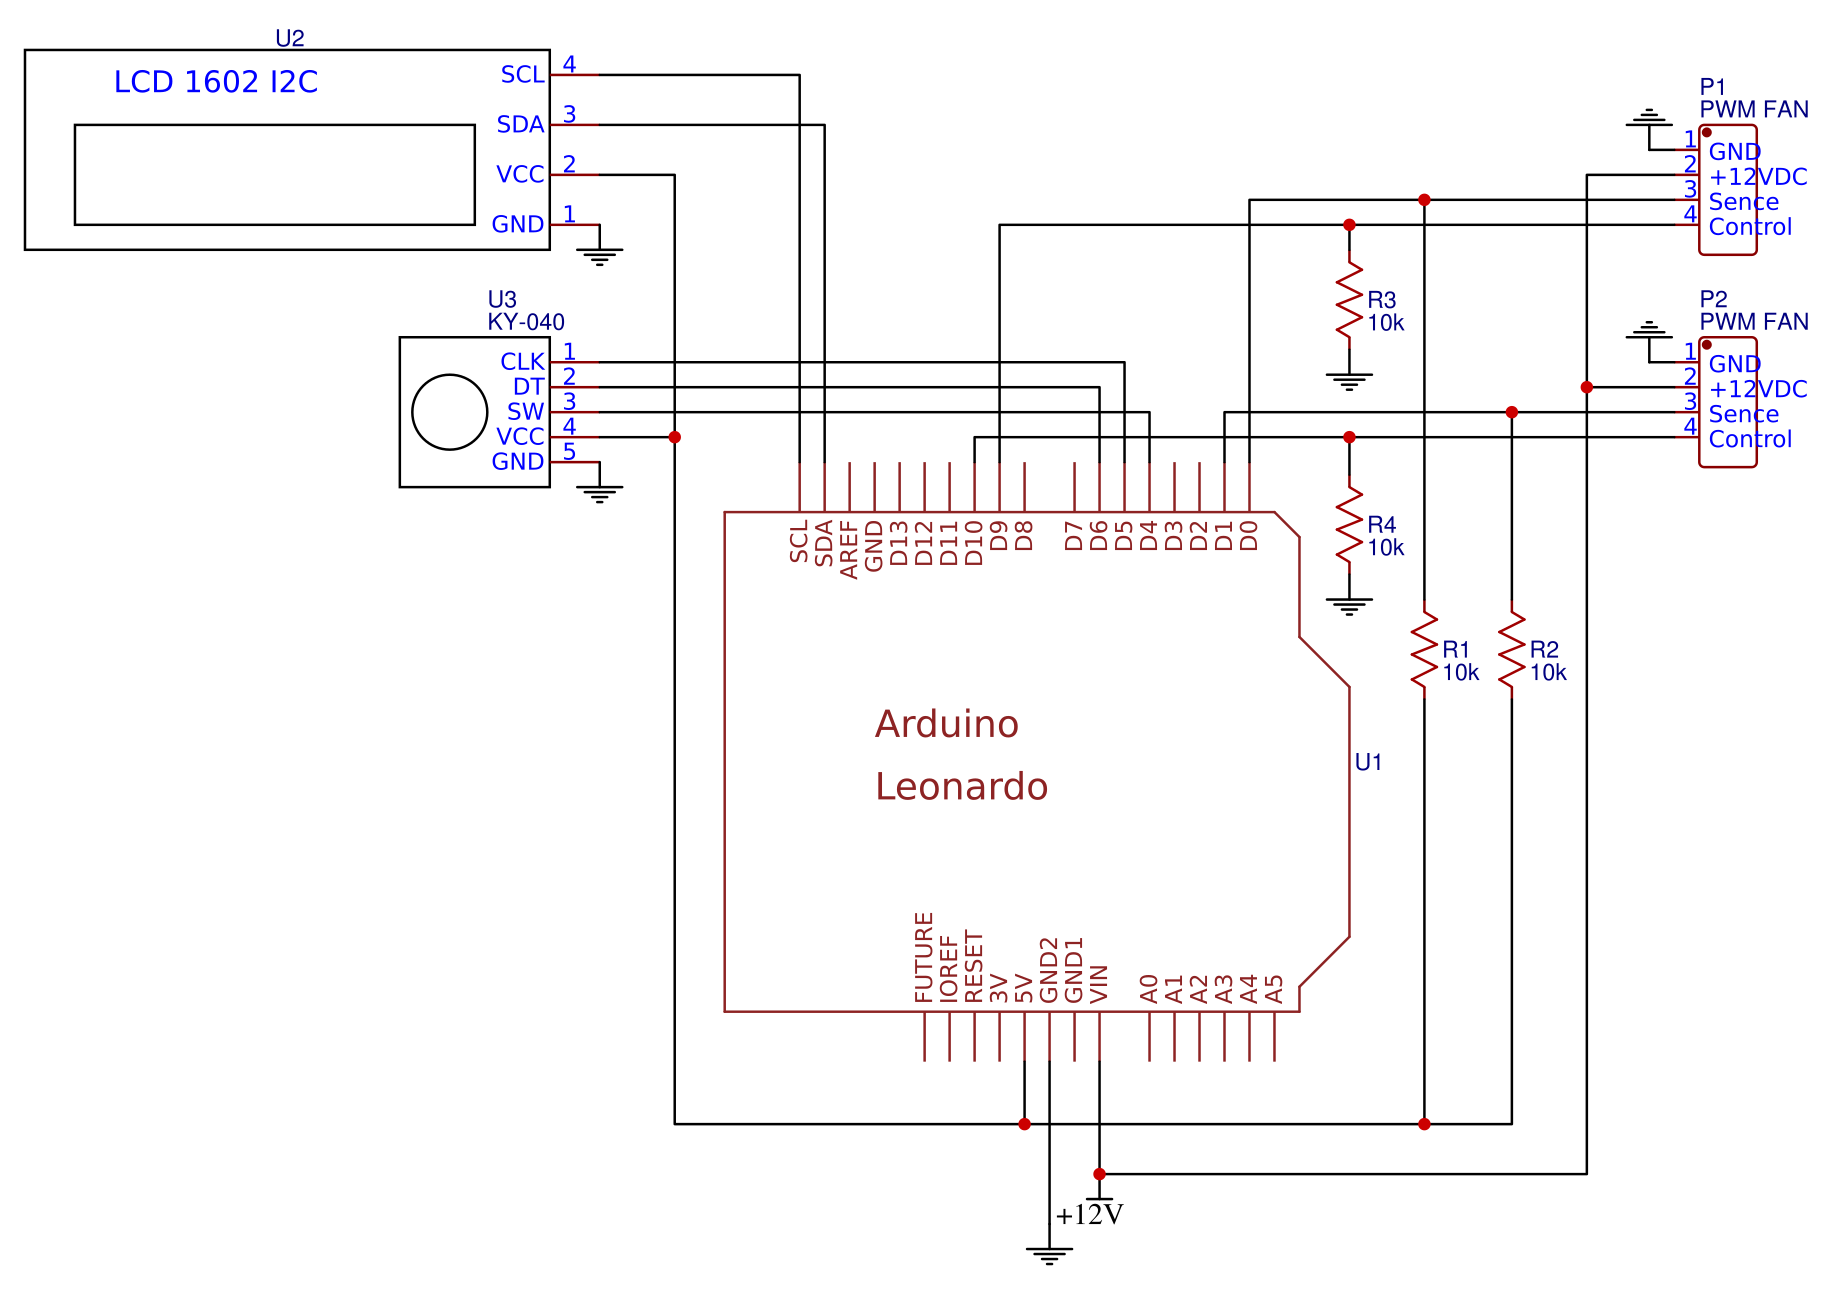
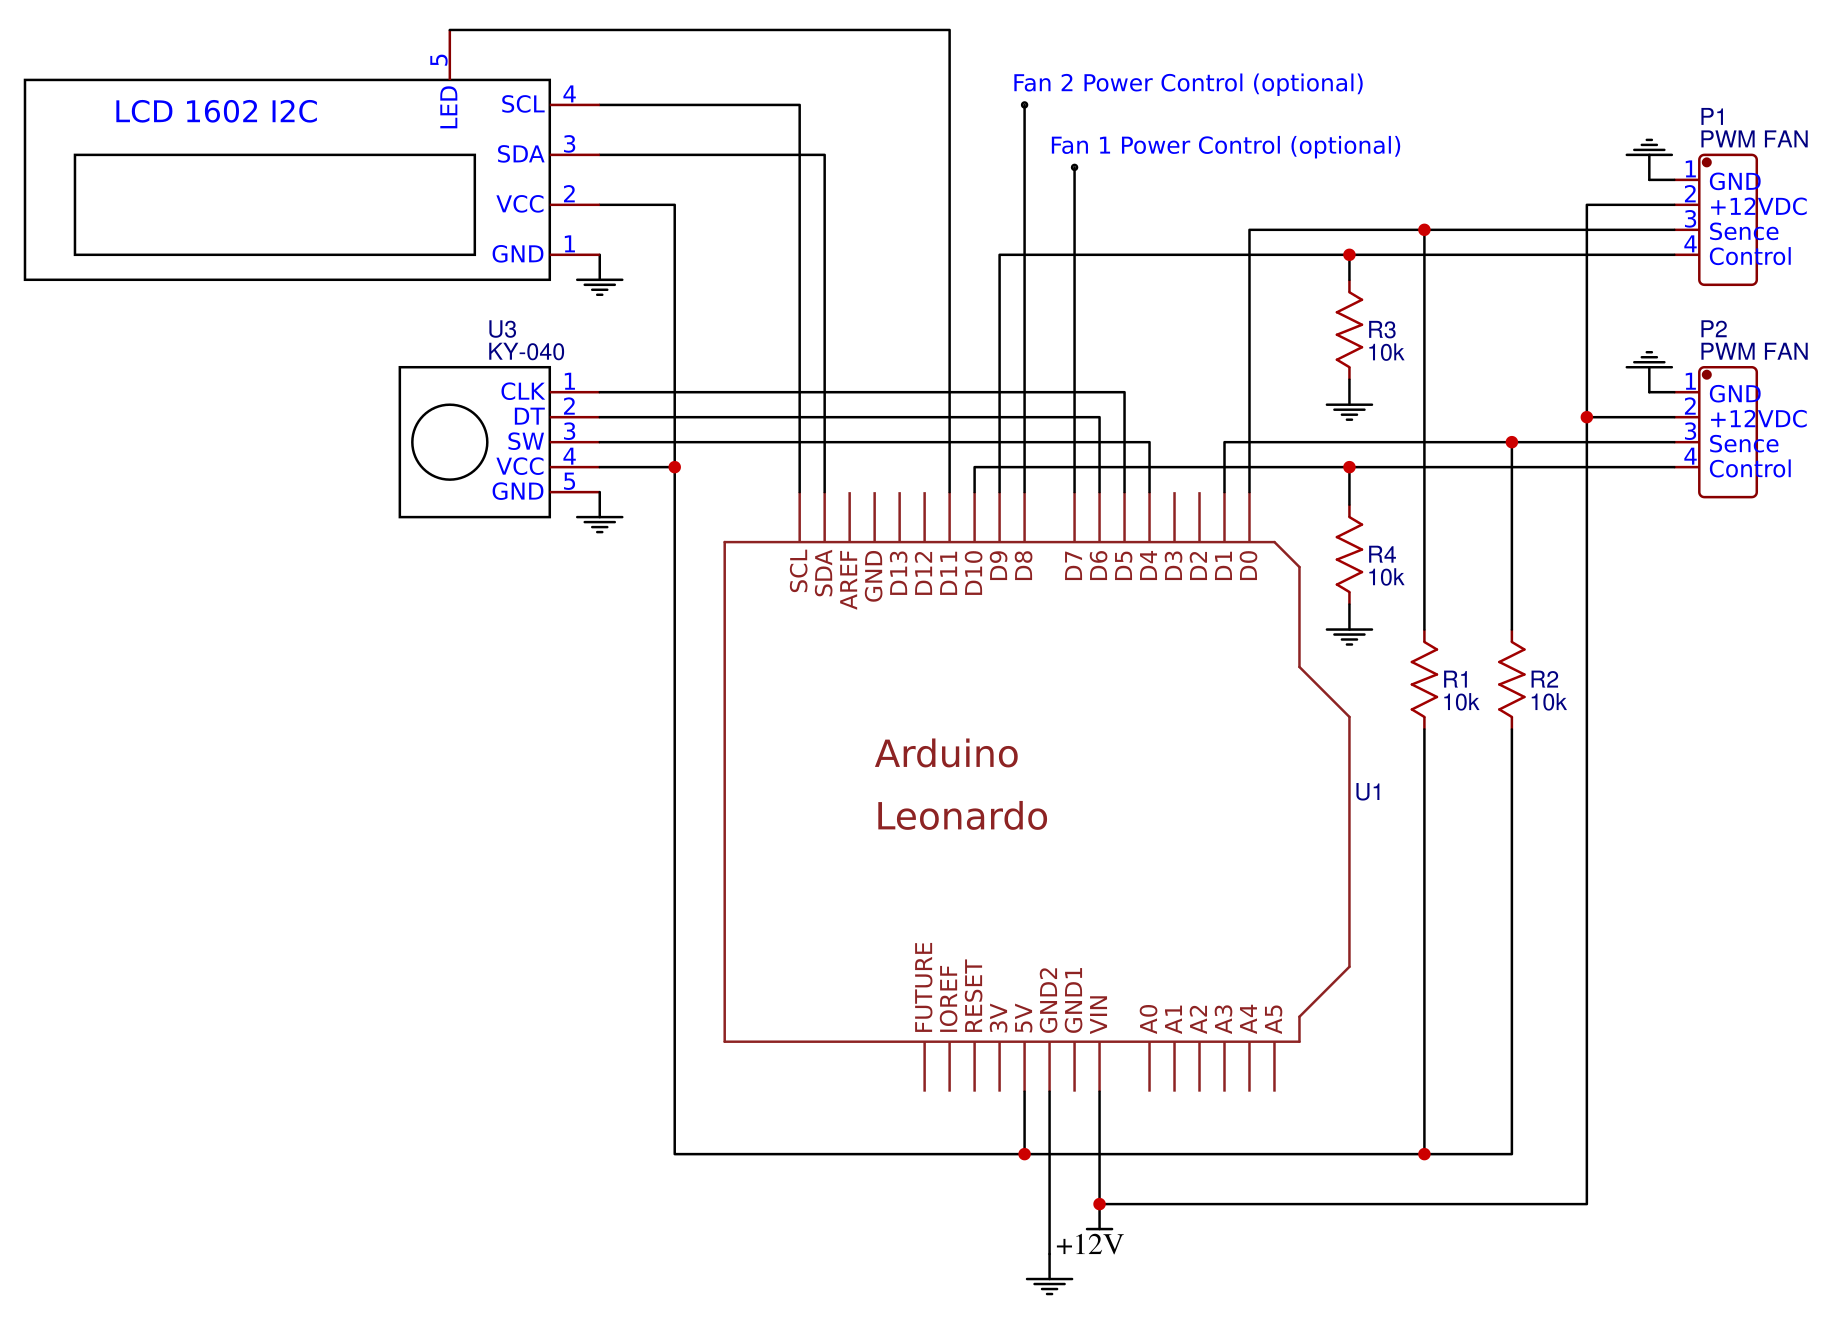
off state pins, brightness control

diff --git a/README.md b/README.md
@@ -25,6 +25,8 @@ All functions are controlled by the KY-040 encoder:
   * **CTIME**: turn changes the interval in minutes for the fish catching function
   * **RTIME**: turn changes speed rise time in seconds (applies to power on, stirrer on, boost on and fish catching)
   * **OTIME**: turn changes switch off time in hours (the timer activates immediately, 0 = switch off disabled)
+* **Other menu options**:
+  * **BRGHT**: LCD brightness
 
 ## Display Indicators:
 
@@ -40,10 +42,17 @@ All functions are controlled by the KY-040 encoder:
 |`SPEEDINC`|increment of speed values when turning the encoder|
 |`FANMIN`|fan minimum speed (should be a value at which the fan runs safely) (rpm)|
 |`FANMAX`|maximum speed of the fan (it is important that this is the real maximum value of the fan) (rpm)|
+|`BOFF`|if set boost off will also turn the normal mode off|
+|`BINC`|BTIME increment (min)|
+|`CINC`|CTIME increment (min)|
+|`RINC`|RTIME increment (sec)|
+|`OINC`|OTIME increment (hour)|
 |`CATCHSTOP`|stop interval for stir fish catch function (ms)|
 |`PWM0`, `PWN1`|PWM output pins|
 |`I0`, `I1`|interrupts for rpm measurement (2 and 3 for Leonardo and ProMicro / 0 and 1 for Uno)|
 |`CLK`, `DT`, `SW`|pins for KY-040 encoder| 
+|`OFF0`, `OFF1`|these pins will be set if the fan is off| 
+|`OFFSTATE`|off state (LOW/HIGH)| 
 |`RINTERVAL`|regulation interval (ms)|
 |`RDELAY`|extra regulation delay when value changes (ms)|
 |`RTOL`|regulation tolerance (rpm)|
@@ -51,6 +60,7 @@ All functions are controlled by the KY-040 encoder:
 |`SAVERAGE`|speed measurement average|
 |`SAVETAG`|parameter save identifier|
 |`SAVEDELAY`|delay in seconds before parameter will be saved to EEPROM|
+|`LCDB`|LCD brightness steps (10 values, 0=off, 255=max)|
 
 ## API commands
 
